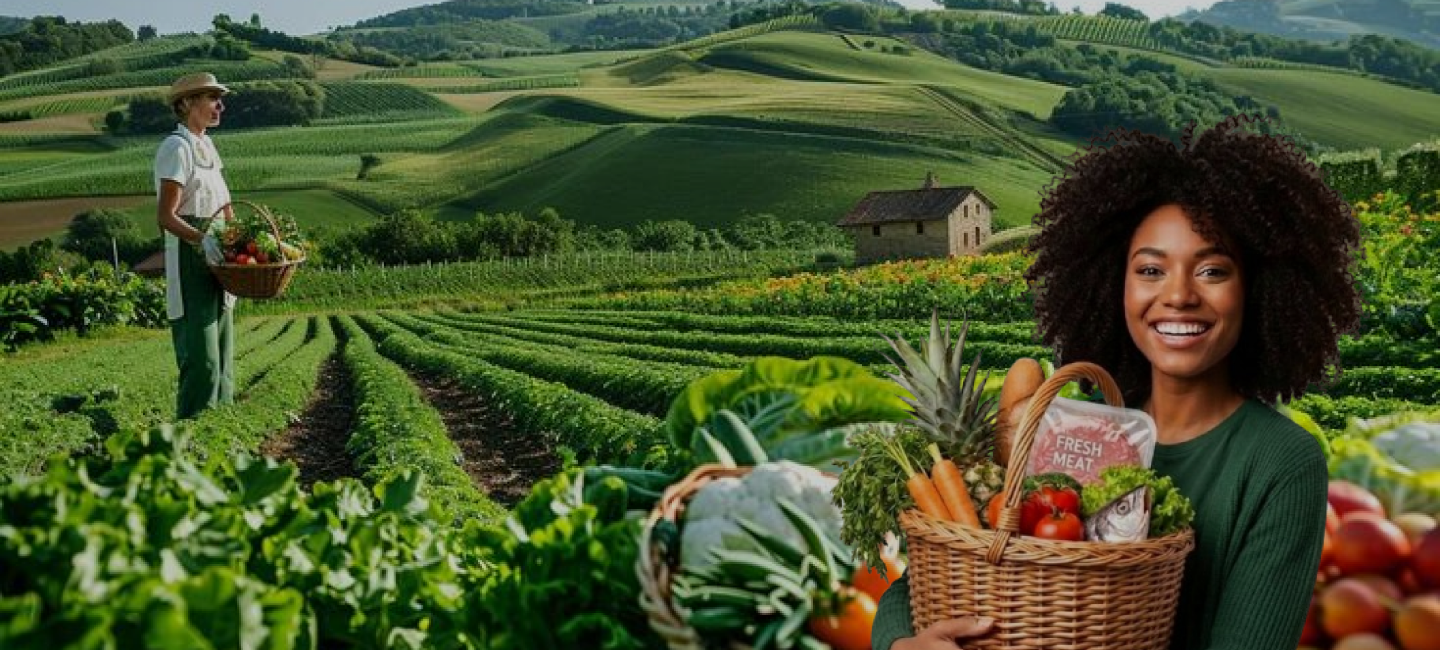
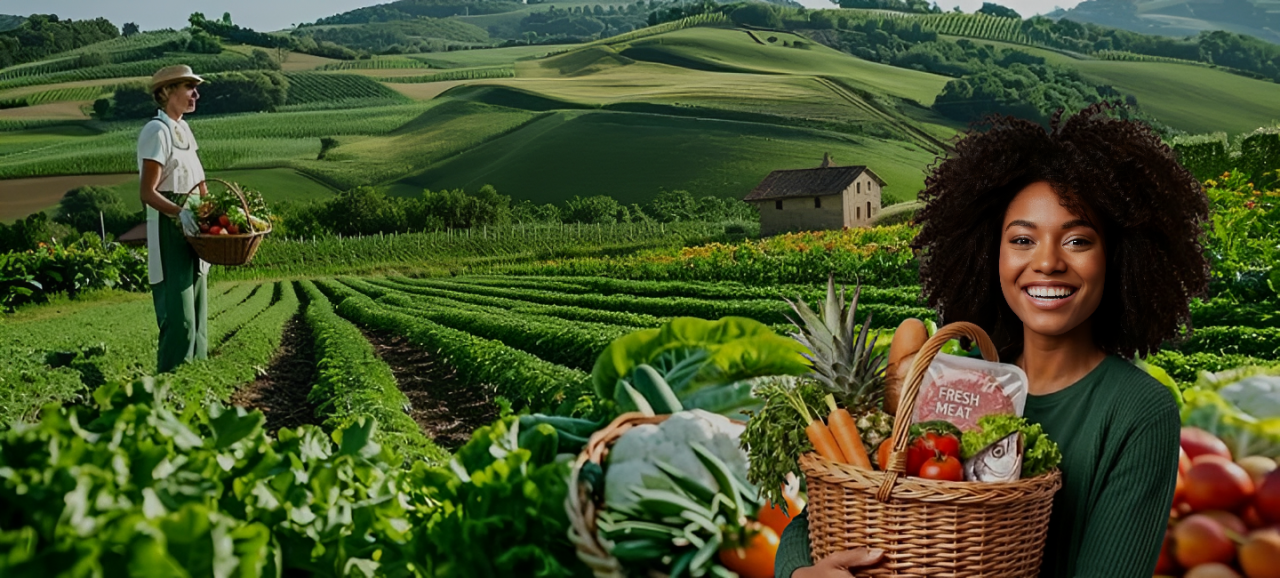
fixed about.html

diff --git a/about.html b/about.html
@@ -46,10 +46,13 @@
       </nav>
     </header>
     <main>
-      <section class="hero">
+      <section class="hero about-hero">
         <div class="hero-img">
-          <img src="image/hero-bg2 (2).png" alt="Hero image" />
+          <img class="hero-image" src="image/hero-bg2 (2).png" alt="Hero image" />
         </div>
+         <!-- <div class="about-hero-img">
+          <img class="hero-image" src="image/about-hero-2.jpg" alt="Hero image" />
+        </div> -->
         <div class="hero-details">
           <h1>
             Building Better Farm<br />
@@ -60,7 +63,7 @@
             making it easier to discover fresh produce and build reliable
             agricultural connection
           </p>
-          <div class="store-buttons">
+                 <div class="store-buttons">
             <a href="#" class="store-btn">
               <img src="image/playstore-icon.png" alt="Play Store icon" />
               <span class="btn-text">

diff --git a/styles.css b/styles.css
@@ -1,10 +1,10 @@
 @import url('https://fonts.cdnfonts.com/css/euclid-circular-b');
 
-
 .max-width{
   width:100%;
   max-width:78rem;
 }
+
 testimonial-img
 .quote img{
   height:100%;
@@ -59,7 +59,6 @@ nav ul li {
 nav ul li a:hover {
   color: #000;
   text-decoration: none;
-  font-size: 20px;
   font-family: "Euclid Circular B", sans-serif;
   font-weight: 600;
 }
@@ -68,11 +67,11 @@ nav ul li a {
   text-decoration: none;
   font-size: 18px;
   font-family: "Euclid Circular B", sans-serif;
-  font-weight: 500;
+  font-weight: 400;
 }
 ul a.active {
-  font-weight: bold;
-  color: #48bd4c; 
+  color: #000; 
+  font-weight: 500;
 }
 nav img {
   font-size: 40px;
@@ -354,6 +353,17 @@ h1 {
   margin-top: -50px;
   font-family: "Euclid Circular B";
 }
+
+.about-hero{
+  position: relative;
+}
+
+.about-hero-img{
+  position: absolute;
+  bottom: 0;
+  right: 0;
+}
+
 .download-btn {
   width: 150px;
   height: 40px;
